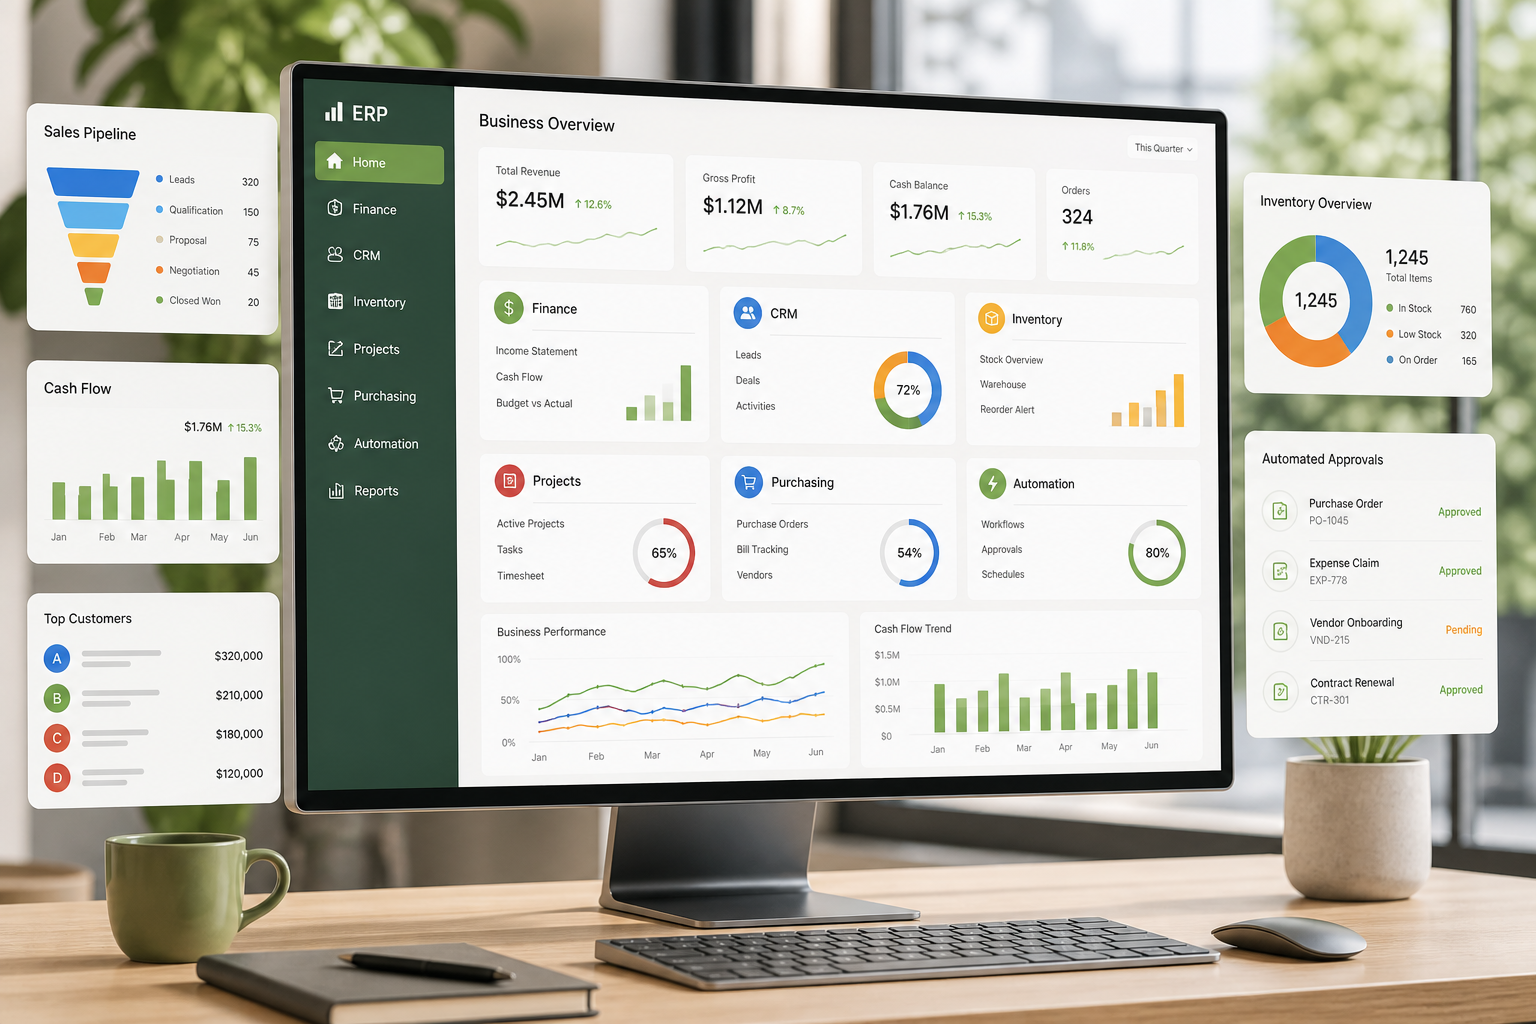
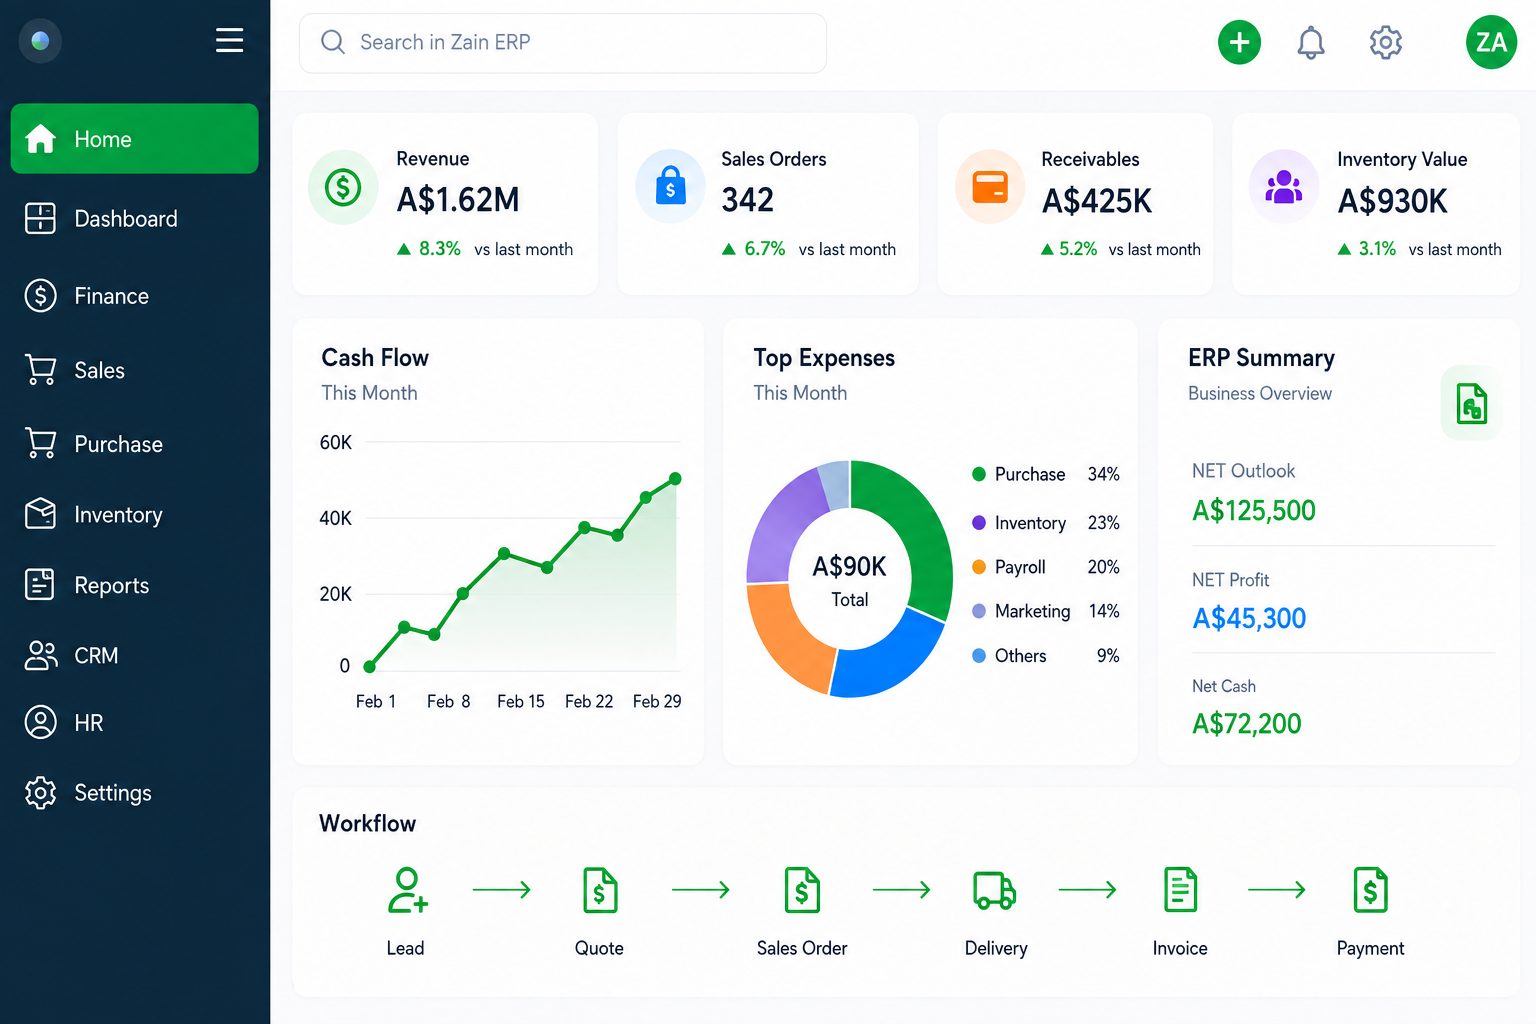
added the new images

diff --git a/src/views/salesforce/SalesforceImplementation.jsx b/src/views/salesforce/SalesforceImplementation.jsx
@@ -610,7 +610,7 @@ const SalesforceImplementation = () => {
                 <div aria-hidden="true" className="absolute -inset-3 rounded-[1.75rem] bg-[#719334]/5 blur-lg" />
                 <div aria-hidden="true" className="absolute -bottom-4 -right-4 hidden h-full w-full rounded-2xl border-2 border-slate-200 sm:block" />
                 <img
-                  src="/salesforce/salesforce-crm-hero.png"
+                  src="/salesforce-crm-hero.png"
                   alt="Salesforce implementation dashboard for Australian businesses"
                   className="relative h-auto w-full rounded-2xl object-contain shadow-[0_20px_60px_-15px_rgba(0,0,0,0.1)] ring-1 ring-slate-200"
                 />
@@ -720,7 +720,11 @@ const SalesforceImplementation = () => {
             </h2>
             {/* brand lockup (matches reference image) */}
             <div className="hidden items-center gap-4 lg:flex" aria-hidden="true">
-              <span className="font-heading text-3xl font-bold tracking-tight text-[#8f9bb3]">Salesforce</span>
+              <img
+                src="/salesforce-logo.png"
+                alt="Salesforce"
+                className="h-18 w-50 object-contain"
+              />
               <span className="h-9 w-px bg-slate-300" />
               <span className="rounded-lg bg-gradient-to-br from-[#719334] to-[#5a7529] px-4 py-2 font-heading text-xl font-bold tracking-wide text-white shadow-md">
                 ZYNEX
@@ -979,7 +983,7 @@ const SalesforceImplementation = () => {
             
             <div className="hidden lg:flex w-full h-[380px] justify-center items-center relative z-10 mt-6 lg:mt-0">
                {/* Center Laptop Composite Image (contains all the badges) */}
-               <img src="/salesforce/salesforce-field-service.png" alt="Connected Salesforce field service, work order and customer account dashboard" className="absolute h-full w-full rounded-2xl object-cover object-center drop-shadow-[0_12px_24px_rgba(0,0,0,0.08)]" />
+               <img src="/salesforce-field-service.png" alt="Connected Salesforce field service, work order and customer account dashboard" className="absolute h-full w-full rounded-2xl object-cover object-center drop-shadow-[0_12px_24px_rgba(0,0,0,0.08)]" />
             </div>
           </div>
 

diff --git a/src/views/erpservices/ErpNextImplementation.jsx b/src/views/erpservices/ErpNextImplementation.jsx
@@ -595,7 +595,7 @@ const ErpNextImplementation = () => {
                 <div aria-hidden="true" className="absolute -inset-3 rounded-[1.75rem] bg-[#719334]/5 blur-lg" />
                 <div aria-hidden="true" className="absolute -bottom-4 -right-4 hidden h-full w-full rounded-2xl border-2 border-slate-200 sm:block" />
                 <img
-                  src="/zynex1.webp"
+                  src="/zynex1.png"
                   alt="ERPNext Implementation"
                   className="relative h-auto w-full rounded-2xl object-contain shadow-[0_20px_60px_-15px_rgba(0,0,0,0.1)] ring-1 ring-slate-200"
                 />
@@ -709,7 +709,11 @@ const ErpNextImplementation = () => {
             </h2>
             {/* brand lockup (matches reference image) */}
             <div className="hidden items-center gap-4 lg:flex" aria-hidden="true">
-              <span className="font-heading text-3xl font-bold tracking-tight text-[#8f9bb3]">ERPNext</span>
+              <img
+                src="/erpnextlog.png"
+                alt="ERPNext"
+                className="h-18 w-50 object-contain"
+              />
               <span className="h-9 w-px bg-slate-300" />
               <span className="rounded-lg bg-gradient-to-br from-[#719334] to-[#5a7529] px-4 py-2 font-heading text-xl font-bold tracking-wide text-white shadow-md">
                 ZYNEX
@@ -1131,7 +1135,7 @@ const ErpNextImplementation = () => {
             <div className="lg:sticky lg:top-24">
               <div className="rounded-2xl bg-white p-5 shadow-[0_8px_40px_rgba(113,147,52,0.12)] ring-1 ring-slate-200 transition-transform duration-500 hover:scale-[1.01]">
                 <img
-                  src="/computer.webp"
+                  src="/computer.png"
                   alt="ERPNext ROI and performance graph"
                   className="w-full h-auto"
                 />

diff --git a/src/views/erpservices/ZohoErpDevelopment.jsx b/src/views/erpservices/ZohoErpDevelopment.jsx
@@ -29,7 +29,6 @@ import ContactModal from '../../components/ContactModal';
 import Footer from '../../components/Footer';
 import Schema from '../../components/Schema';
 import { useSeo } from '../../hooks/useSeo';
-import zohoLogo from '../../assets/Machine/zoho.jpeg';
 
 const brandGreen = '#719334';
 const brandGreenDark = '#5a7529';
@@ -611,7 +610,11 @@ const ZohoErpDevelopment = () => {
             </h2>
             {/* brand lockup (matches reference image) */}
             <div className="hidden items-center gap-4 lg:flex" aria-hidden="true">
-              <span className="font-heading text-3xl font-bold tracking-tight text-[#8f9bb3]">Zoho ERP</span>
+              <img
+                src="/zoho-erp.png"
+                alt="Zoho ERP"
+                className="h-18 w-50 object-contain"
+              />
               <span className="h-9 w-px bg-slate-300" />
               <span className="rounded-lg bg-gradient-to-br from-[#719334] to-[#5a7529] px-4 py-2 font-heading text-xl font-bold tracking-wide text-white shadow-md">
                 ZYNEX
@@ -673,7 +676,7 @@ const ZohoErpDevelopment = () => {
               {/* inner circle */}
               <div className="relative z-10 flex h-52 w-52 flex-col items-center justify-center rounded-full border border-slate-200 bg-white text-center shadow-[0_18px_44px_rgba(15,23,42,0.10)]">
                 <img
-                  src={zohoLogo.src}
+                  src="/zoho-erp.png"
                   alt="Zoho ERP"
                   className="h-auto w-[142px] object-contain"
                 />

diff --git a/src/components/Partners.jsx b/src/components/Partners.jsx
@@ -42,9 +42,6 @@ import javascriptImg from '../assets/Machine/JavaScript-logo.png';
 import qwebImg from '../assets/Machine/Qweb.png';
 import html5Img from '../assets/Machine/HTML5 Logo.svg';
 import odooImg from '../assets/Machine/oddo.png';
-import erp from '../assets/Machine/erp.jpeg';
-import salesforce from '../assets/Machine/salesforce.png';
-import zoho from '../assets/Machine/zoho.jpeg';
 import erpnext from '../assets/Machine/erpnext.png';
 
 
@@ -88,13 +85,12 @@ const Partners = () => {
   // Odoo ERP core tech stack — static display, no scrolling
   const erpStack = [
     // { name: "Python", logo: pythonImg },
-    // { name: "ERP", logo: erp },
-    { name: "Sales Force", logo: salesforce },
+    { name: "Salesforce", logo: "/salesforce-logo.png" },
     // { name: "QWeb", logo: qwebImg },
     // { name: "HTML5 & CSS/SCSS", logo: html5Img },
     { name: "ODOO", logo: odooImg },
     { name: "ERPNext", logo: erpnext },
-    { name: "Zoho", logo: zoho },
+    { name: "Zoho ERP", logo: "/zoho-erp.png" },
 
   ];
 

diff --git a/src/components/WhatWeDo.jsx b/src/components/WhatWeDo.jsx
@@ -83,7 +83,7 @@ const WhatWeDo = () => {
       },
       gradient: "from-blue-500 to-cyan-500",
       borderGradient: "from-blue-500 to-cyan-500",
-      image: "/computer.webp",
+      image: "/computer.png",
       icon: (
         <svg className="w-10 h-10" fill="none" viewBox="0 0 24 24" stroke="currentColor">
           <path strokeLinecap="round" strokeLinejoin="round" strokeWidth={1.5} d="M9 19v-6a2 2 0 00-2-2H5a2 2 0 00-2 2v6a2 2 0 002 2h2a2 2 0 002-2zm0 0V9a2 2 0 012-2h2a2 2 0 012 2v10m-6 0a2 2 0 002 2h2a2 2 0 002-2m0 0V5a2 2 0 012-2h2a2 2 0 012 2v14a2 2 0 01-2 2h-2a2 2 0 01-2-2z" />

diff --git a/src/views/LearnMore.jsx b/src/views/LearnMore.jsx
@@ -246,7 +246,7 @@ const LearnMore = () => {
               className="relative h-[300px] sm:h-[400px] lg:h-[500px] rounded-3xl overflow-hidden shadow-[0_8px_40px_rgba(0,0,0,0.12)] order-first lg:order-last"
             >
               <motion.img
-                src="/zynex1.webp"
+                src="/zynex1.png"
                 alt="About Zynex Technologies"
                 className="w-full h-full object-cover"
                 initial={{ scale: 1.2 }}

diff --git a/src/views/services/StrategyReport.jsx b/src/views/services/StrategyReport.jsx
@@ -4,7 +4,7 @@ import React, { useState } from "react";
 import { useRouter } from "next/navigation";
 // eslint-disable-next-line no-unused-vars
 import { motion } from "framer-motion";
-const bg3 = "/computer.webp";
+const bg3 = "/computer.png";
 import ContactModal from "../../components/ContactModal";
 import SampleReportModal from "../../components/SampleReportModal";
 import RequestReportModal from "../../components/RequestReportModal";

diff --git a/src/components/RelatedIndustryPages.jsx b/src/components/RelatedIndustryPages.jsx
@@ -34,7 +34,7 @@ const industryPages = [
     title: 'AI Development for Legal Firms',
     description: 'AI for document review, client intake, matter workflows, compliance, and firm reporting.',
     href: '/ai-development-company-legal-firms-australia',
-    image: '/zynex1.webp',
+    image: '/zynex1.png',
   },
   {
     slug: 'real-estate',

diff --git a/src/views/industrypages/AiDevelopmentCompanyLegalFirmsAustralia.jsx b/src/views/industrypages/AiDevelopmentCompanyLegalFirmsAustralia.jsx
@@ -20,7 +20,7 @@ import Schema from '../../components/Schema';
 import RelatedIndustryPages from '../../components/RelatedIndustryPages';
 import { useSeo } from '../../hooks/useSeo';
 
-const heroImage = 'zynex1.webp';
+const heroImage = 'zynex1.png';
 const brandGreen = '#719334';
 
 const fadeInUp = {
